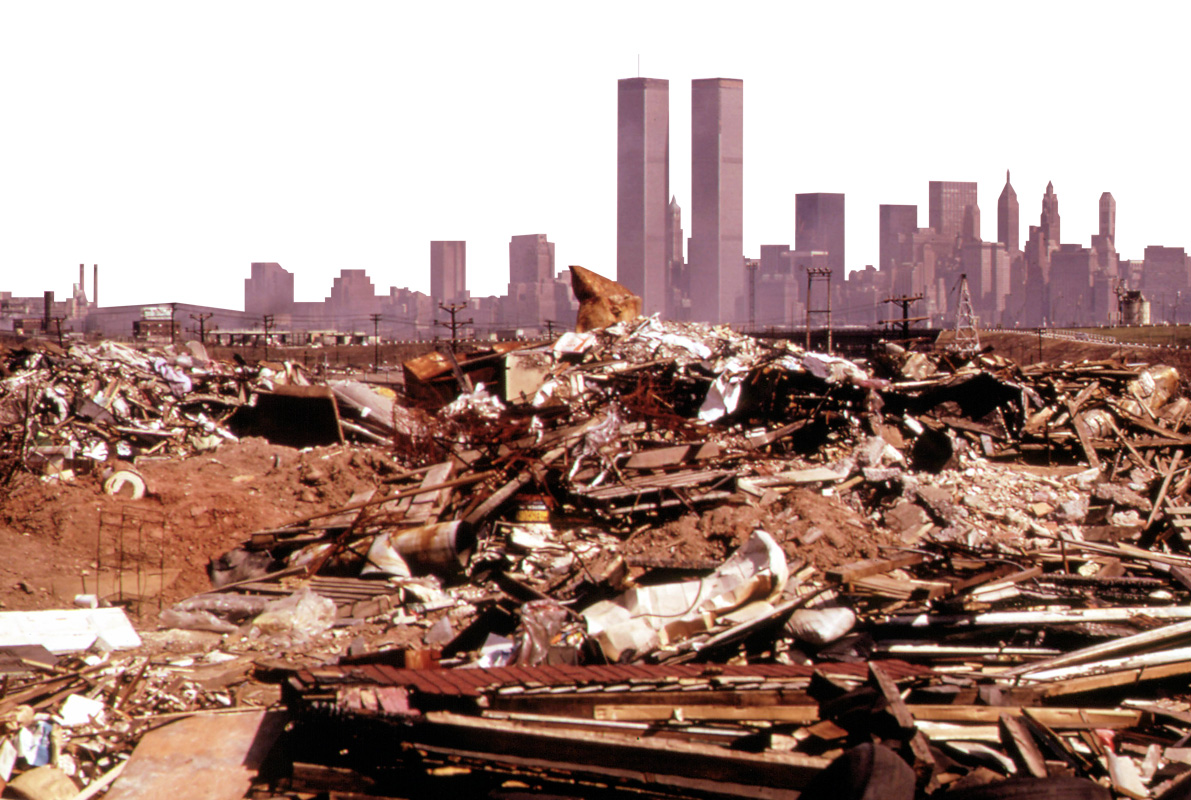
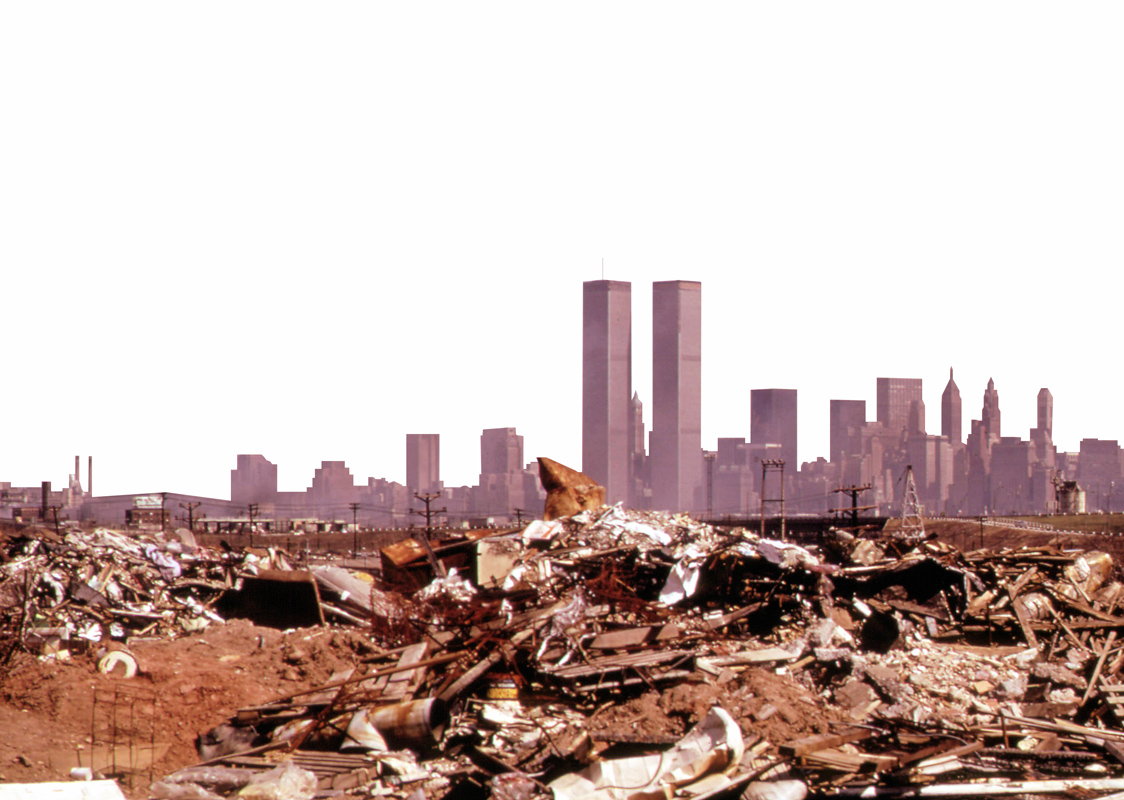
Hist: meta tags and images

diff --git a/app/history.html b/app/history.html
@@ -3,9 +3,32 @@
 
 <head>
   <meta charset="utf-8">
-  <meta name="description" content="">
-  <meta name="viewport" content="width=device-width, initial-scale=1.0, maximum-scale=1.0, user-scalable=0">
   <title>Getting to Zero | Waste Journeys | History of NYC's Waste</title>
+  <meta name="viewport" content="width=device-width, initial-scale=1.0, maximum-scale=1.0, user-scalable=0, minimal-ui">
+  <meta name="apple-mobile-web-app-capable" content="yes">
+  <meta name="mobile-web-app-capable" content="yes">
+
+  <!-- Search Engine -->
+  <meta name="description" content="What did we use to do with our trash? Dump it in the ocean? Build land? Send it far away? Find out more about the history of NYC's trash in this visualization.">
+  <meta name="image" content="http://journeys.gettingtozero.nyc/images/thumbnails/site.jpg">
+  <!-- Schema.org for Google -->
+  <meta itemprop="name" content="Getting to Zero NYC | Waste Journeys | History of NYC's Waste">
+  <meta itemprop="description" content="What did we use to do with our trash? Dump it in the ocean? Build land? Send it far away? Find out more about the history of NYC's trash in this visualization.">
+  <meta itemprop="image" content="http://journeys.gettingtozero.nyc/images/thumbnails/site.jpg">
+  <!-- Twitter -->
+  <meta property="twitter:url" content="http://journeys.gettingtozero.nyc/history.html" />
+  <meta property="twitter:card" content="summary">
+  <meta property="twitter:title" content="Getting to Zero NYC | Waste Journeys | History of NYC's Waste">
+  <meta property="twitter:description" content="What did we use to do with our trash? Dump it in the ocean? Build land? Send it far away? Find out more about the history of NYC's trash in this visualization.">
+  <meta property="twitter:image:src" content="http://journeys.gettingtozero.nyc/images/thumbnails/history-tw.jpg">
+  <!-- Open Graph general (Facebook, Pinterest & Google+) -->
+  <meta property="og:title" content="Getting to Zero NYC | Waste Journeys | History of NYC's Waste">
+  <meta property="og:description" content="What did we use to do with our trash? Dump it in the ocean? Build land? Send it far away? Find out more about the history of NYC's trash in this visualization.">
+  <meta property="og:image" content="http://journeys.gettingtozero.nyc/images/thumbnails/history-og.jpg">
+  <meta property="og:url" content="http://journeys.gettingtozero.nyc/history.html">
+  <meta property="og:site_name" content="Getting to Zero NYC | Waste Journeys | OHNY">
+  <meta property="og:locale" content="en_US">
+  <meta property="og:type" content="website">
 
   <link rel="apple-touch-icon" href="apple-touch-icon.png">
   <!-- Place favicon.ico in the root directory -->
@@ -125,7 +148,7 @@
               <p>In the late 19<sup>th</sup> century, NYC's streets were incredibly dirty. Food scraps, horse manure, ashes, and other types of waste were common obstacles to pedestrians and carts on the streets.</p>
             </div>
           </div>
-          <div class="panel panel-image image-transition" data-type="image" id="panel-0-3" data-imageurl="panel-1-2.jpg" data-transitionurl="panel-1-2-2.jpg" data-transitionnum="1-1"></div>
+          <div class="panel panel-image image-transition" data-type="image" id="panel-0-3" data-imageurl="panel-1-2.jpg" data-transitionurl="panel-1-2-2.jpg" data-transitionnum="0-3"></div>
           <div class="hidden" id="transition-0-3"></div>
 
 
@@ -264,7 +287,7 @@
               <!-- <p>It was closed only in 2001, after being the only in-city waste disposal option for about 7 years.</p> -->
             </div>
           </div>
-          <div class="panel panel-image image-transition" data-type="image" id="panel-3-4" data-imageurl="panel-3-3.jpg" data-transitionurl="panel-3-3-2.jpg" data-transitionnum="3-5"></div>
+          <div class="panel panel-image image-transition" data-type="image" id="panel-3-4" data-imageurl="panel-3-3.jpg" data-transitionurl="panel-3-3-2.jpg" data-transitionnum="3-4"></div>
           <div class="hidden" id="transition-3-4"></div>
           <div class="panel panel-text" data-type="text-block" id="text-3-5">
             <h5 class="section-title">1950's</h5>

diff --git a/app/views/history.html b/app/views/history.html
@@ -3,9 +3,32 @@
 
 <head>
   <meta charset="utf-8">
-  <meta name="description" content="">
-  <meta name="viewport" content="width=device-width, initial-scale=1.0, maximum-scale=1.0, user-scalable=0">
   <title>Getting to Zero | Waste Journeys | History of NYC's Waste</title>
+  <meta name="viewport" content="width=device-width, initial-scale=1.0, maximum-scale=1.0, user-scalable=0, minimal-ui">
+  <meta name="apple-mobile-web-app-capable" content="yes">
+  <meta name="mobile-web-app-capable" content="yes">
+
+  <!-- Search Engine -->
+  <meta name="description" content="What did we use to do with our trash? Dump it in the ocean? Build land? Send it far away? Find out more about the history of NYC's trash in this visualization.">
+  <meta name="image" content="http://journeys.gettingtozero.nyc/images/thumbnails/site.jpg">
+  <!-- Schema.org for Google -->
+  <meta itemprop="name" content="Getting to Zero NYC | Waste Journeys | History of NYC's Waste">
+  <meta itemprop="description" content="What did we use to do with our trash? Dump it in the ocean? Build land? Send it far away? Find out more about the history of NYC's trash in this visualization.">
+  <meta itemprop="image" content="http://journeys.gettingtozero.nyc/images/thumbnails/site.jpg">
+  <!-- Twitter -->
+  <meta property="twitter:url" content="http://journeys.gettingtozero.nyc/history.html" />
+  <meta property="twitter:card" content="summary">
+  <meta property="twitter:title" content="Getting to Zero NYC | Waste Journeys | History of NYC's Waste">
+  <meta property="twitter:description" content="What did we use to do with our trash? Dump it in the ocean? Build land? Send it far away? Find out more about the history of NYC's trash in this visualization.">
+  <meta property="twitter:image:src" content="http://journeys.gettingtozero.nyc/images/thumbnails/history-tw.jpg">
+  <!-- Open Graph general (Facebook, Pinterest & Google+) -->
+  <meta property="og:title" content="Getting to Zero NYC | Waste Journeys | History of NYC's Waste">
+  <meta property="og:description" content="What did we use to do with our trash? Dump it in the ocean? Build land? Send it far away? Find out more about the history of NYC's trash in this visualization.">
+  <meta property="og:image" content="http://journeys.gettingtozero.nyc/images/thumbnails/history-og.jpg">
+  <meta property="og:url" content="http://journeys.gettingtozero.nyc/history.html">
+  <meta property="og:site_name" content="Getting to Zero NYC | Waste Journeys | OHNY">
+  <meta property="og:locale" content="en_US">
+  <meta property="og:type" content="website">
 
   <link rel="apple-touch-icon" href="apple-touch-icon.png">
   <!-- Place favicon.ico in the root directory -->
@@ -59,7 +82,7 @@
               <p>In the late 19<sup>th</sup> century, NYC's streets were incredibly dirty. Food scraps, horse manure, ashes, and other types of waste were common obstacles to pedestrians and carts on the streets.</p>
             </div>
           </div>
-          <div class="panel panel-image image-transition" data-type="image" id="panel-0-3" data-imageurl="panel-1-2.jpg" data-transitionurl="panel-1-2-2.jpg" data-transitionnum="1-1"></div>
+          <div class="panel panel-image image-transition" data-type="image" id="panel-0-3" data-imageurl="panel-1-2.jpg" data-transitionurl="panel-1-2-2.jpg" data-transitionnum="0-3"></div>
           <div class="hidden" id="transition-0-3"></div>
 
 
@@ -198,7 +221,7 @@
               <!-- <p>It was closed only in 2001, after being the only in-city waste disposal option for about 7 years.</p> -->
             </div>
           </div>
-          <div class="panel panel-image image-transition" data-type="image" id="panel-3-4" data-imageurl="panel-3-3.jpg" data-transitionurl="panel-3-3-2.jpg" data-transitionnum="3-5"></div>
+          <div class="panel panel-image image-transition" data-type="image" id="panel-3-4" data-imageurl="panel-3-3.jpg" data-transitionurl="panel-3-3-2.jpg" data-transitionnum="3-4"></div>
           <div class="hidden" id="transition-3-4"></div>
           <div class="panel panel-text" data-type="text-block" id="text-3-5">
             <h5 class="section-title">1950's</h5>

diff --git a/app/scripts/sizes/history-sizes.js b/app/scripts/sizes/history-sizes.js
@@ -1,1 +1,1 @@
-var visImageSizes = [{"height":500,"width":685,"type":"jpg","filename":"500_panel-0-1.jpg"},{"height":500,"width":706,"type":"jpg","filename":"500_panel-1-2.jpg"},{"height":800,"width":3272,"type":"jpg","filename":"600_fk-closure.jpg"},{"height":800,"width":1777,"type":"jpg","filename":"600_fresh-kills-dumping.jpg"},{"height":800,"width":1333,"type":"jpg","filename":"600_fresh-kills-dumping_old.jpg"},{"height":800,"width":1456,"type":"jpg","filename":"600_incinerator.jpg"},{"height":600,"width":476,"type":"jpg","filename":"600_initial.jpg"},{"height":577,"width":790,"type":"jpg","filename":"600_panel-0-1.jpg"},{"height":600,"width":847,"type":"jpg","filename":"600_panel-1-2-2.jpg"},{"height":600,"width":847,"type":"jpg","filename":"600_panel-1-2.jpg"},{"height":1517,"width":2874,"type":"jpg","filename":"600_panel-1-4.jpg"},{"height":800,"width":2629,"type":"jpg","filename":"600_panel-1-7.jpg"},{"height":800,"width":1692,"type":"jpg","filename":"600_panel-1-9.jpg"},{"height":800,"width":941,"type":"jpg","filename":"600_panel-3-2.jpg"},{"height":513,"width":696,"type":"jpg","filename":"600_panel-3-3-2.jpg"},{"height":513,"width":696,"type":"jpg","filename":"600_panel-3-3.jpg"},{"height":800,"width":1191,"type":"jpg","filename":"600_panel-3-4.jpg"},{"height":800,"width":1321,"type":"jpg","filename":"600_panel-3-5.jpg"},{"height":700,"width":988,"type":"jpg","filename":"700_panel-1-2.jpg"},{"height":770,"width":1087,"type":"jpg","filename":"800_panel-1-2.jpg"},{"height":800,"width":2629,"type":"jpg","filename":"800_panel-1-7.jpg"},{"height":800,"width":1692,"type":"jpg","filename":"800_panel-1-9.jpg"},{"height":800,"width":941,"type":"jpg","filename":"800_panel-3-2.jpg"},{"height":800,"width":1191,"type":"jpg","filename":"800_panel-3-4.jpg"}];
+var visImageSizes = [{"height":800,"width":3272,"type":"jpg","filename":"600_fk-closure.jpg"},{"height":800,"width":1777,"type":"jpg","filename":"600_fresh-kills-dumping.jpg"},{"height":800,"width":1333,"type":"jpg","filename":"600_fresh-kills-dumping_old.jpg"},{"height":800,"width":1456,"type":"jpg","filename":"600_incinerator.jpg"},{"height":600,"width":476,"type":"jpg","filename":"600_initial.jpg"},{"height":800,"width":977,"type":"jpg","filename":"600_panel-0-1.jpg"},{"height":800,"width":1296,"type":"jpg","filename":"600_panel-1-2-2.jpg"},{"height":800,"width":1296,"type":"jpg","filename":"600_panel-1-2.jpg"},{"height":800,"width":1111,"type":"jpg","filename":"600_panel-1-4.jpg"},{"height":800,"width":1890,"type":"jpg","filename":"600_panel-1-7.jpg"},{"height":800,"width":1692,"type":"jpg","filename":"600_panel-1-9.jpg"},{"height":800,"width":941,"type":"jpg","filename":"600_panel-3-2.jpg"},{"height":513,"width":696,"type":"jpg","filename":"600_panel-3-3-2.jpg"},{"height":513,"width":696,"type":"jpg","filename":"600_panel-3-3.jpg"},{"height":800,"width":1124,"type":"jpg","filename":"600_panel-3-4.jpg"},{"height":800,"width":1472,"type":"jpg","filename":"600_panel-3-5.jpg"}];

diff --git a/todo.md b/todo.md
@@ -1,10 +1,12 @@
 # history
 
-### critical: scroll on videos on android
+<!-- ### critical: scroll on videos on android -->
 - 800px images
-- on mobile: can't tap to scroll over video
+<!-- - on mobile: can't tap to scroll over video -->
+- move video poster title to top
 <!-- - video subtitles? -->
 - add history meta tags
+  - history image for meta
 <!-- - concat geojsons -->
 - back and forth transitions
 - modernizr video remove panels
@@ -12,7 +14,7 @@
 <!-- - map ts -->
 optional
 - old sanitmen
-- graph landfill + incinerator number
+<!-- - graph landfill + incinerator number -->
 - esc on menu
 <!-- - do not preload videos -->
 <!-- - legend on mobile map overlapping with map -->
